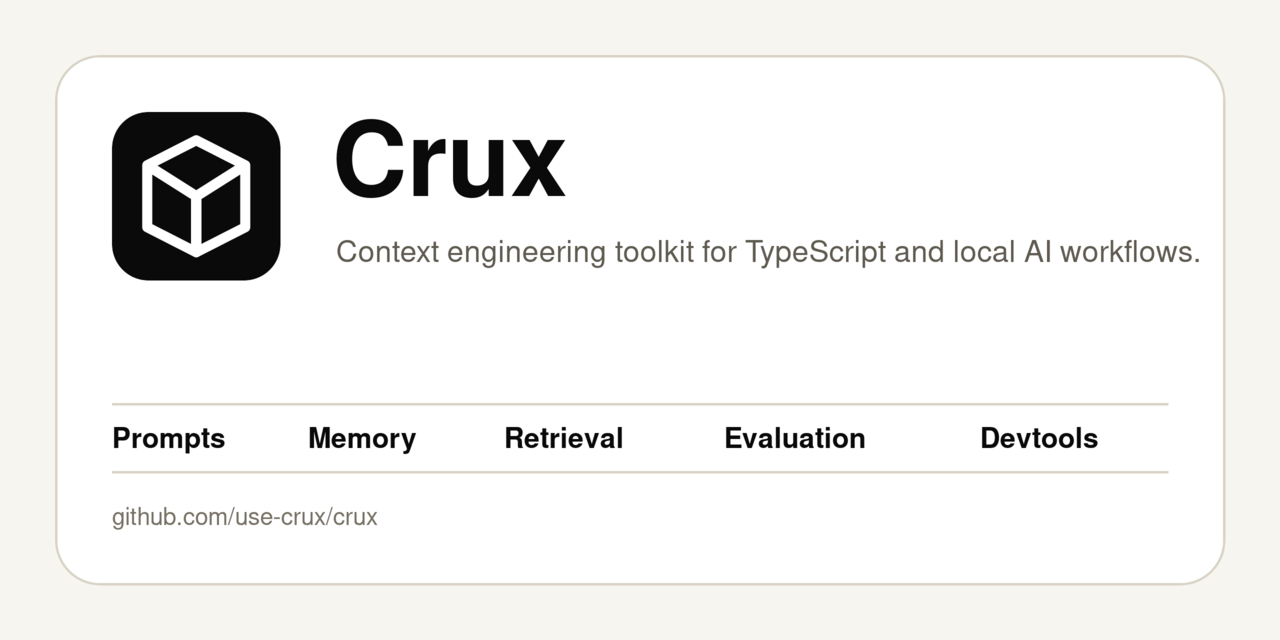
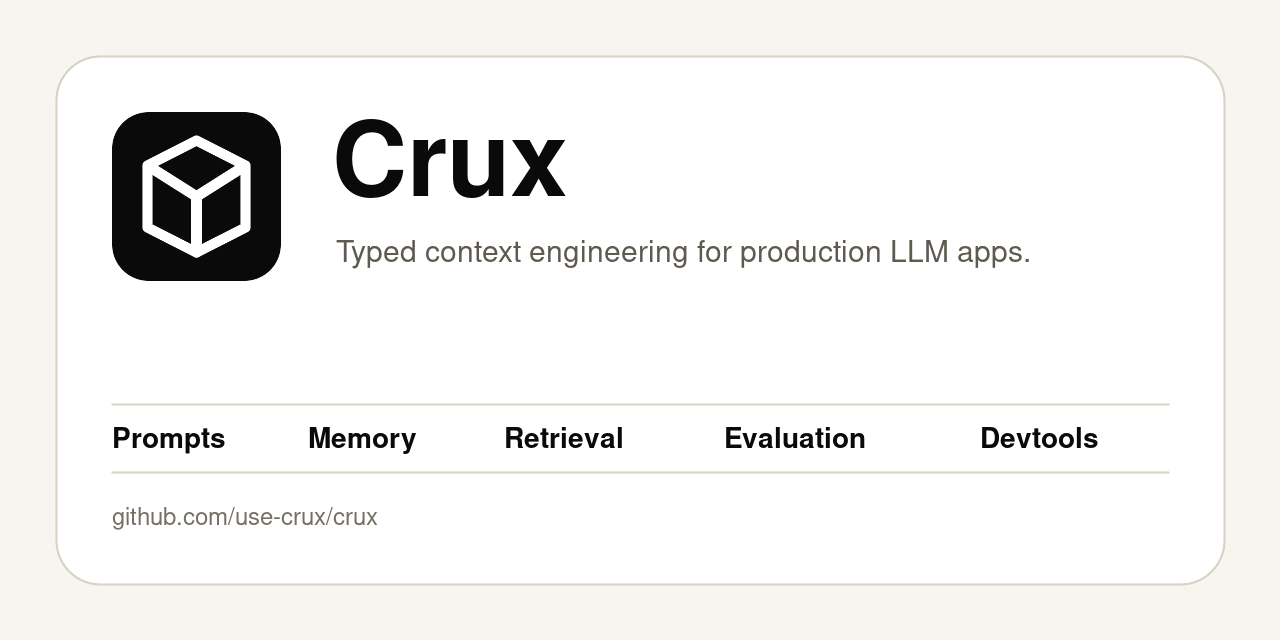
docs(crux-core): optimize README and GitHub metadata

Changed region(s): [[0.25, 0.375, 0.9375, 0.4375]]

diff --git a/README.md b/README.md
@@ -2,63 +2,214 @@
   <img src="assets/crux-logo.svg" alt="Crux" width="320" />
 </p>
 
-# Crux
+<h1 align="center">Crux</h1>
 
-Context engineering toolkit for TypeScript.
+<p align="center">
+  <strong>Typed context engineering for production LLM apps.</strong>
+</p>
 
-Crux provides typed primitives for prompts, contexts, memory, retrieval, flows, evaluation, agents, guardrails, and provider adapters. The SDK is currently pre-1.0 and being prepared for open source release.
+<p align="center">
+  Compose prompts, memory, retrieval, tools, guardrails, routing, evals, and observability around the model SDK you already use.
+</p>
 
-## Packages
+<p align="center">
+  <a href="./apps/docs/content/docs/getting-started/index.mdx">Get started</a>
+  |
+  <a href="./apps/docs/content/docs/foundations/index.mdx">What is Crux?</a>
+  |
+  <a href="./apps/docs/content/docs/foundations/mental-model.mdx">How it works</a>
+  |
+  <a href="./apps/docs/content/docs/foundations/comparison.mdx">Compare</a>
+  |
+  <a href="./packages/core/README.md">@crux/core</a>
+</p>
 
-- `@crux/core` - core prompt, context, memory, retrieval, flow, evaluation, safety, and agent primitives.
-- `@crux/ai` - Vercel AI SDK adapter.
-- `@crux/openai` - OpenAI SDK adapter.
-- `@crux/anthropic` - Anthropic SDK adapter.
-- `@crux/google` - Google GenAI SDK adapter.
-- `@crux/convex` - Convex integration.
-- `@crux/upstash` - Upstash Vector and Redis adapters.
-- `@crux/otel` - OpenTelemetry integration.
-- `@crux/ingest` - source loaders for files and URLs.
-- `@crux/react` - React integration helpers.
-- `@crux/devtools` - local development UI and trace tooling.
-- `@crux/local` - native local runtime, CLI, TUI, dev server, and embedded devtools.
+> Status: Crux is pre-1.0 and preparing for its initial open source release.
+> Package names, APIs, and install commands reflect the intended public shape,
+> while packages remain private in this repository during release cleanup.
 
-## Development
+## What is Crux?
+
+Crux is the typed harness around an LLM call.
+
+Your app still owns the product logic. Your chosen SDK still calls the model. Crux owns the layer that decides what the model sees, what tools it can use, how memory is recalled, how output is validated, how quality is tested, and how the whole run is observed.
+
+That layer usually starts as template strings and helper functions. In production it becomes the hard part: shared context, stale retrieval, missing memory writes, prompt injection checks, model routing, token budgets, evals, trace inspection, and provider migration. Crux gives those concerns first-class TypeScript primitives instead of scattering them across call sites.
+
+```ts
+import { context, prompt } from '@crux/core'
+import { generate } from '@crux/ai'
+import { openai } from '@ai-sdk/openai'
+import { z } from 'zod'
+
+const brand = context({
+  id: 'brand',
+  priority: 30,
+  input: z.object({ tone: z.string().optional() }),
+  when: ({ input }) => !!input.tone,
+  system: ({ input }) => `Write in a ${input.tone} tone.`,
+})
+
+const answerQuestion = prompt({
+  id: 'answer-question',
+  use: [brand],
+  input: z.object({
+    question: z.string(),
+  }),
+  output: z.object({
+    answer: z.string(),
+    confidence: z.enum(['low', 'medium', 'high']),
+  }),
+  system: 'Answer clearly and only use information you can support.',
+  prompt: ({ input }) => input.question,
+})
+
+const result = await generate(answerQuestion, {
+  model: openai('gpt-4o'),
+  input: {
+    question: 'What did we decide about the launch plan?',
+    tone: 'direct',
+  },
+})
+
+result.object.answer
+result.object.confidence
+```
+
+The prompt is portable data: typed input, typed output, composable context, inspectable resolution, and adapter-specific execution only at the edge.
+
+## Why teams use it
+
+| Need                             | What Crux gives you                                                                                    |
+| -------------------------------- | ------------------------------------------------------------------------------------------------------ |
+| Reuse context without copy-paste | `context()` blocks for brand, policy, retrieved docs, formatting rules, and tools                      |
+| Keep prompts type-safe           | Zod input/output schemas with inferred `result.object` types                                           |
+| Swap providers                   | Define once, run through Vercel AI SDK, OpenAI, Anthropic, Google GenAI, or agent-framework adapters   |
+| Add memory deliberately          | Recent messages, working state, episodes, facts, procedures, and custom memory blocks                  |
+| Control token pressure           | Priority-based context merging, sliding windows, budget managers, and compaction                       |
+| Ship safer model calls           | Guardrails, constraints, validation retries, tool middleware, and human approvals                      |
+| Prove quality before release     | Inline prompt tests, LLM-as-judge scoring, variants, cassettes, and CLI evals                          |
+| Debug what happened              | Local devtools, structured traces, artifacts, source catalog, and OpenTelemetry export                 |
+| Coordinate agents                | Pipelines, parallel runs, consensus, swarms, blackboards, handoffs, delegates, flows, plans, and tasks |
+
+## How it works
+
+Every execution follows the same pipeline:
+
+```txt
+define -> resolve -> adapt -> observe
+```
+
+| Stage   | What happens                                                                                                                                                                      |
+| ------- | --------------------------------------------------------------------------------------------------------------------------------------------------------------------------------- |
+| Define  | Author pure TypeScript definitions: prompts, contexts, memory blocks, tools, agents, tests, and settings. They do not import a provider SDK.                                      |
+| Resolve | At call time, Crux validates input, filters conditional contexts, merges tools/settings, applies priorities and token budgets, and produces a provider-agnostic `ResolvedPrompt`. |
+| Adapt   | An adapter maps that resolved prompt to the SDK you chose: Vercel AI SDK, OpenAI, Anthropic, Google GenAI, Convex Agent, or another runner.                                       |
+| Observe | Hooks emit structured events for generations, context resolution, memory reads/writes, tool calls, eval cases, judge scores, artifacts, and errors.                               |
+
+This separation is the point. You can inspect the full prompt payload without calling a model, run the same prompt through multiple providers, and keep evals tied to the definition they protect.
+
+## Where it fits
+
+Crux is complementary to the tools you already know.
+
+| If you use...           | Crux adds...                                                                                                             |
+| ----------------------- | ------------------------------------------------------------------------------------------------------------------------ |
+| Vercel AI SDK           | A typed context, memory, safety, eval, and observability layer on top of an excellent execution and UI toolkit.          |
+| Raw provider SDKs       | Structure, portability, schemas, traceability, and testability while preserving direct provider access.                  |
+| LangChain or LlamaIndex | Lightweight TypeScript primitives for teams that want the context layer without adopting a full orchestration framework. |
+| Your own agent loop     | Typed prompts, handoffs, blackboards, memory, evals, and telemetry that compose with your existing runtime.              |
+
+Use raw strings for one-off prompts. Reach for Crux when prompts share context, need memory, need structured output, must be evaluated, or are important enough to debug like production code.
+
+## Quick start
+
+Once the public packages are published:
+
+```bash
+pnpm add @crux/core @crux/ai ai @ai-sdk/openai zod
+```
+
+For this repository today:
 
 ```bash
 pnpm install
 pnpm typecheck
 pnpm test
-pnpm build
 ```
 
-## Make Targets
+Pick a stack-specific walkthrough:
 
-Use the root `Makefile` for common repository workflows:
+- [Next.js](./apps/docs/content/docs/getting-started/nextjs.mdx)
+- [Node.js](./apps/docs/content/docs/getting-started/node.mdx)
+- [Convex](./apps/docs/content/docs/getting-started/convex.mdx)
+- [Expo / React Native](./apps/docs/content/docs/getting-started/expo.mdx)
+
+## Packages
+
+| Package           | Purpose                                                                                                                                                                           |
+| ----------------- | --------------------------------------------------------------------------------------------------------------------------------------------------------------------------------- |
+| `@crux/core`      | SDK-agnostic primitives for prompts, contexts, memory, storage, retrieval, compaction, safety, routing, scoring, quality, agents, flows, plans, tasks, skills, and observability. |
+| `@crux/ai`        | Vercel AI SDK adapter for `generate`, `stream`, structured output, and Crux-aware stream integration.                                                                             |
+| `@crux/openai`    | OpenAI SDK adapter.                                                                                                                                                               |
+| `@crux/anthropic` | Anthropic SDK adapter.                                                                                                                                                            |
+| `@crux/google`    | Google GenAI SDK adapter.                                                                                                                                                         |
+| `@crux/convex`    | Convex store, blob storage, server boundaries, agent bridge, compaction, and swarm integration.                                                                                   |
+| `@crux/upstash`   | Upstash Vector and Redis-backed storage adapters.                                                                                                                                 |
+| `@crux/otel`      | OpenTelemetry integration for production traces.                                                                                                                                  |
+| `@crux/ingest`    | Source loaders for text, files, and URLs.                                                                                                                                         |
+| `@crux/react`     | React provider, hooks, transports, and SSE helpers for live Crux state.                                                                                                           |
+| `@crux/devtools`  | React devtools UI bundle for traces, evals, source catalog, memory, plans, and runtime inspection.                                                                                |
+| `@crux/local`     | Native Go local runtime, CLI, TUI, HTTP/WS server, embedded devtools, and bounded Node workers.                                                                                   |
+
+## Local runtime
+
+`@crux/local` packages the local developer loop as a native Go binary:
+
+```bash
+crux dev
+crux dev --tui
+crux traces
+crux eval
+crux eval --ci
+```
+
+It hosts the local HTTP/WebSocket server, embeds the devtools UI, stores local traces and quality runs, and spawns bounded Node workers only for source indexing, source lookup, and eval execution.
+
+## Repository development
+
+Crux is a pnpm workspace and Turborepo monorepo. Prefer the root `Makefile` for common workflows:
 
 ```bash
 make install     # install workspace dependencies
-make dev         # run all dev tasks through Turbo
+make dev         # run dev tasks through Turbo
 make docs        # run the docs app
-make build       # build devtools workers/UI, embed them, then build Crux Local
-make local       # build devtools workers/UI, embed them, then build Crux Local
-make local-go    # rebuild only Go using the currently embedded assets
-make local-all   # build embedded Crux Local binaries for supported platforms
+make build       # build devtools, embed assets, and build Crux Local
+make local       # same local runtime build pipeline
+make local-go    # rebuild only Go from already embedded assets
+make local-all   # cross-compile local binaries
 make test
 make typecheck
 ```
 
-The full Crux Local build pipeline is:
+The local build pipeline is:
 
-1. `pnpm --filter @crux/devtools build` builds bundled Node workers into `packages/devtools/dist/` and the React UI into `packages/devtools/ui/dist/`. This is an explicit package build, not a Turbo/root build, and it does not build `docs`.
-2. `make -C packages/local embed` copies those worker and UI assets into Go `//go:embed` directories.
+1. `pnpm --filter @crux/devtools build` builds Node workers into `packages/devtools/dist/` and the React UI into `packages/devtools/ui/dist/`.
+2. `make -C packages/local embed` copies worker and UI assets into Go `//go:embed` directories.
 3. `make -C packages/local build-go` compiles the native `crux` binary.
 
-`make local` runs all three steps. `make local-all` runs the same embedding pipeline and then cross-compiles platform binaries under `packages/local/dist/`. `make cli`, `make cli-go`, and `make cli-all` remain compatibility aliases.
+## Design principles
 
-## Release
+- Prompts are data, not strings.
+- Composition beats monolithic configuration.
+- Provider adapters stay thin; `@crux/core` stays SDK-agnostic.
+- Tests live next to the prompts they protect.
+- Observability is structured, optional, and zero-cost when disabled.
+- Crux is a toolkit, not a hosted prompt platform and not a required runtime.
 
-This repository uses Changesets.
+## Contributing and release
+
+Crux uses Changesets for release management:
 
 ```bash
 pnpm changeset
@@ -66,4 +217,6 @@ pnpm version-packages
 pnpm release
 ```
 
-Packages are intended to publish under the public `@crux/*` npm scope once the initial open source cleanup is complete.
+Before public npm release, packages will be converted from source entrypoints to compiled `dist` entrypoints and published under the public `@crux/*` npm scope.
+
+See [CONTRIBUTING.md](./CONTRIBUTING.md), [SECURITY.md](./SECURITY.md), and the [open source checklist](./docs/OPEN_SOURCE_CHECKLIST.md) for the current pre-1.0 process.

diff --git a/docs/github-branding.md b/docs/github-branding.md
@@ -1,6 +1,42 @@
 # GitHub Branding
 
-Crux keeps the source logo assets in `assets/` so the README, GitHub organization avatar, and repository social preview all use the same visual system.
+Crux keeps the source logo assets and repository metadata copy in this document so the README, GitHub About sidebar, organization avatar, and social preview tell the same story.
+
+## Positioning
+
+Use the same short hierarchy everywhere:
+
+- Name: `Crux`
+- Tagline: `Typed context engineering for production LLM apps.`
+- One-liner: `Compose prompts, memory, retrieval, tools, guardrails, routing, evals, and observability around the model SDK you already use.`
+- Long description: `Crux is a TypeScript toolkit for the context-engineering layer around LLM calls: typed prompts, composable context, memory, retrieval, safety, routing, evaluation, local devtools, and OpenTelemetry. It works with Vercel AI SDK, OpenAI, Anthropic, Google GenAI, Convex, and custom agent runtimes.`
+
+## GitHub About
+
+GitHub repository settings should use:
+
+- Description: `Typed context engineering for production LLM apps.`
+- Website: `https://github.com/use-crux/crux#readme` until the docs site has a stable public URL.
+- Social preview: `assets/crux-social-preview.png`
+- Topics:
+  - `ai`
+  - `llm`
+  - `typescript`
+  - `context-engineering`
+  - `prompts`
+  - `prompt-engineering`
+  - `memory`
+  - `retrieval`
+  - `rag`
+  - `agents`
+  - `evals`
+  - `observability`
+  - `developer-tools`
+  - `vercel-ai-sdk`
+  - `openai`
+  - `anthropic`
+  - `gemini`
+  - `convex`
 
 ## Assets
 
@@ -21,5 +57,9 @@ GitHub currently requires these image uploads through the web settings UI.
    - Open `https://github.com/use-crux/crux/settings`
    - Scroll to **Social preview**
    - Upload `assets/crux-social-preview.png`
+3. Repository About sidebar:
+   - Open `https://github.com/use-crux/crux`
+   - In the About panel, click the gear icon
+   - Set description, website, and topics from this document
 
 The README logo is committed directly and uses `assets/crux-logo.svg`.
